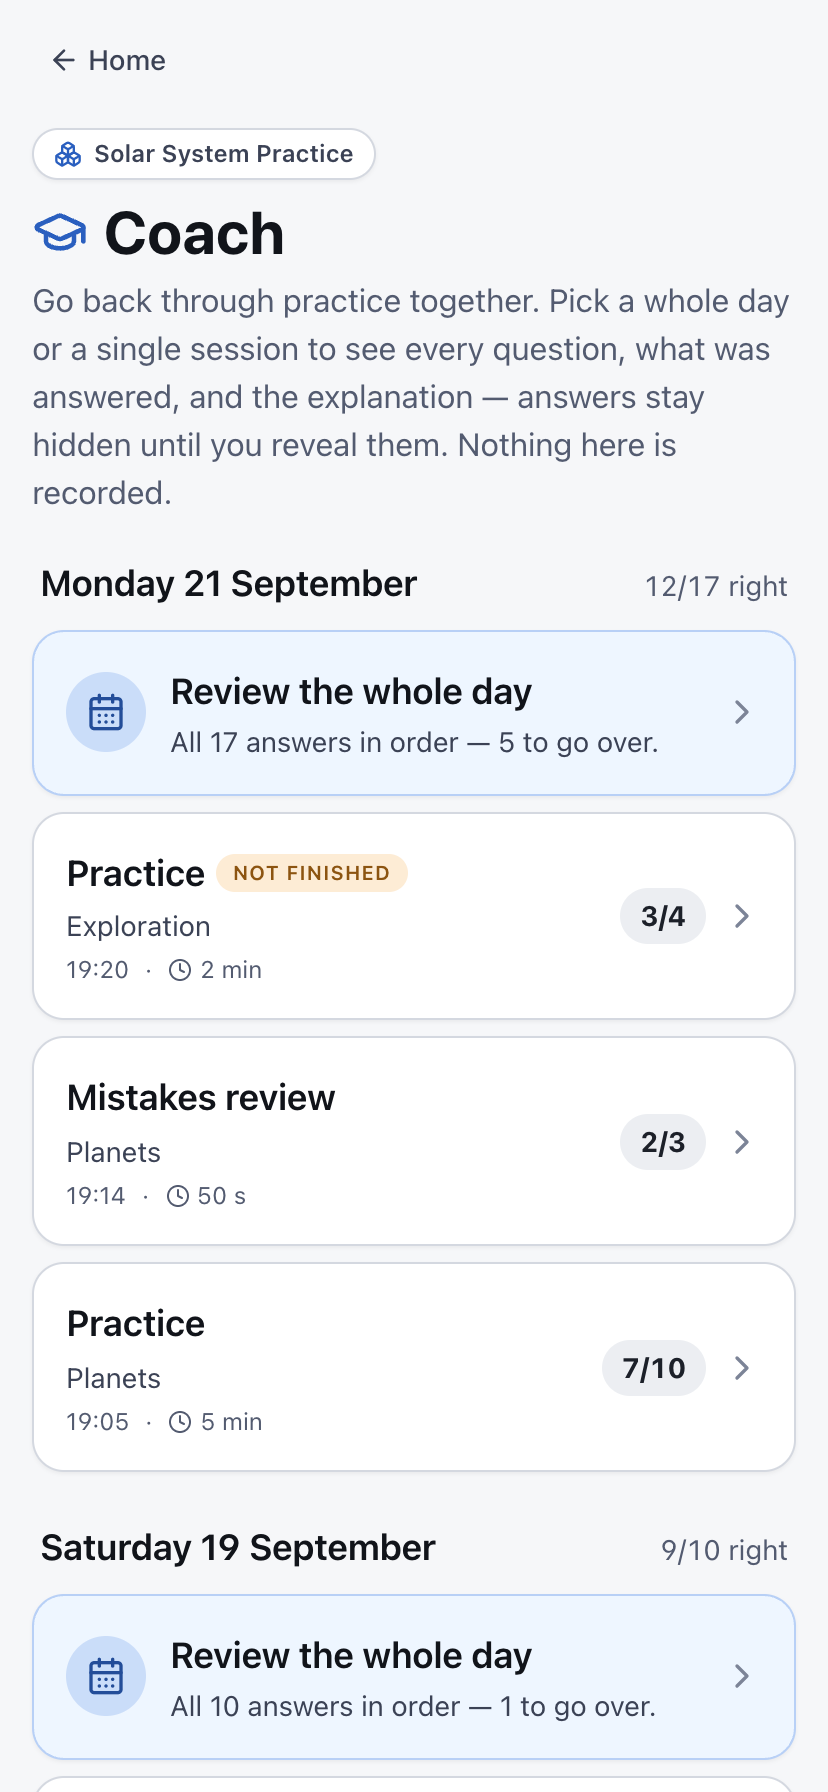
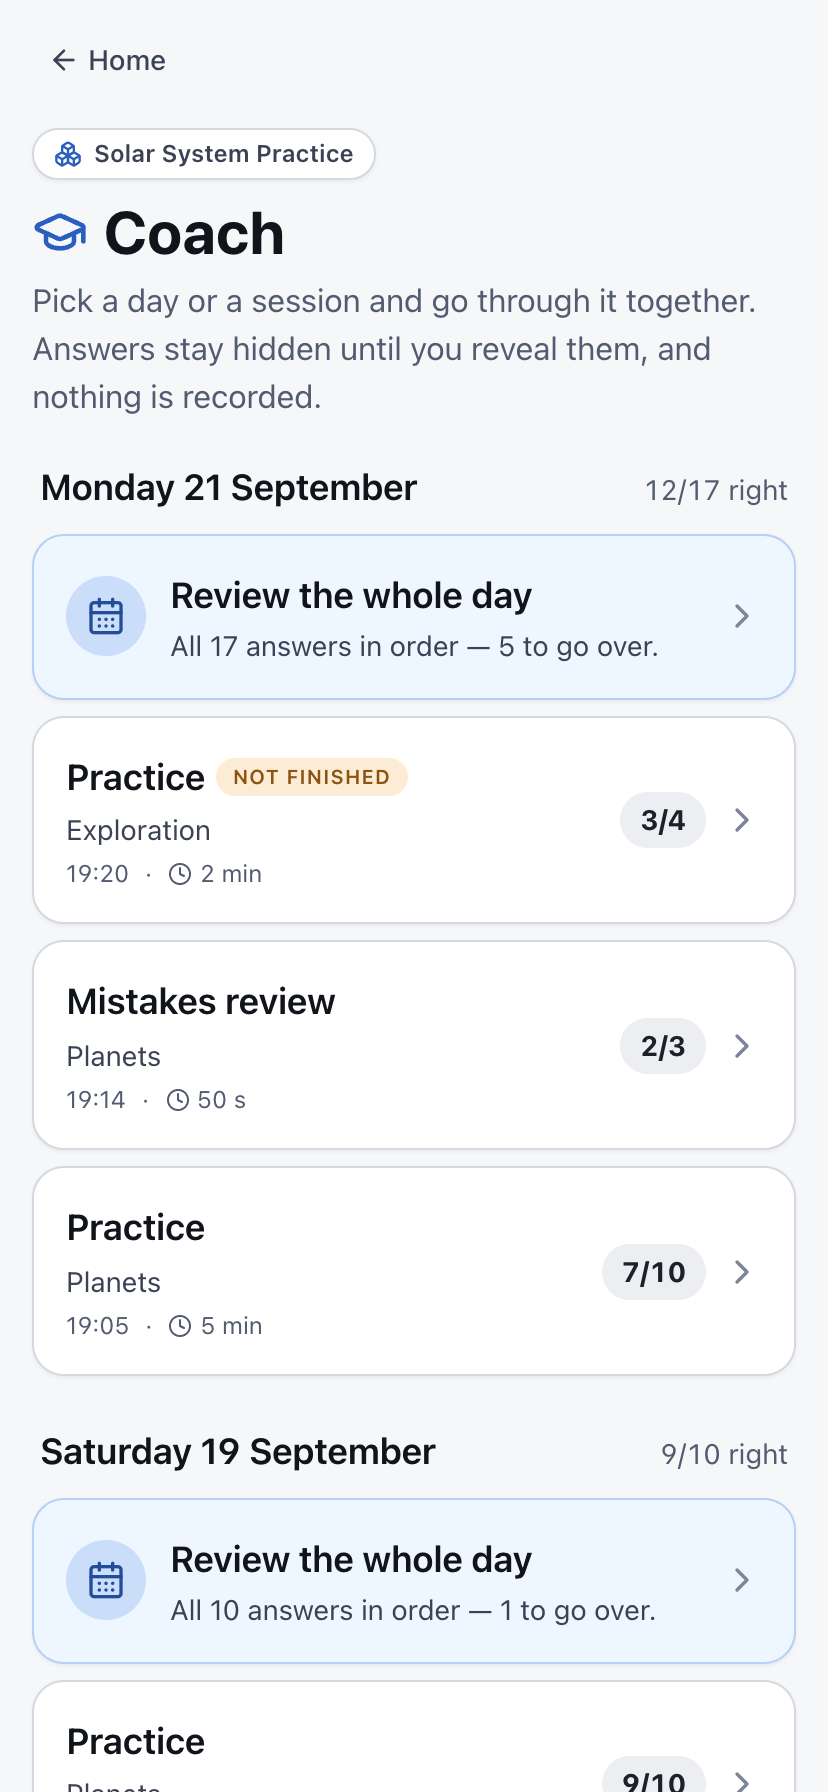
Coach replay: sticky reveal bar, no tag chips, scroll to top, tighter copy
- The back / Show-all-answers bar sticks to the top: a day replay runs
  to dozens of cards and reveal-all is the control you reach for
  halfway down.
- QuestionMeta gains hideTags; the replay shows category and level only.
  A parent wants the question, not the pack's taxonomy, and the tags
  wrapped the chip row onto two lines. Time taken folds into the
  Q n/N chip.
- Opening or closing a replay scrolls to the top, so a session picked
  from deep in the list doesn't open mid-page.
- Shorter intro copy on the list.

Claude-Session: https://claude.ai/code/session_01XkgoMpKoGMRr8BKYGdnCAz

diff --git a/src/pack/CoachPage.tsx b/src/pack/CoachPage.tsx
@@ -127,12 +127,16 @@ export function CoachPage() {
   function open(t: Target) {
     window.location.hash = hashFor(t);
     setTarget(t);
+    // The list may be scrolled a long way down; the replay starts at its top.
+    window.scrollTo(0, 0);
   }
 
   function close() {
-    // Replace the hash without a scroll jump; back-button history stays sane.
+    // Replace the hash (no history entry of its own); the browser's back
+    // button also lands here via hashchange.
     window.history.replaceState(null, '', window.location.pathname + window.location.search);
     setTarget(null);
+    window.scrollTo(0, 0);
   }
 
   if (!mounted) {
@@ -199,10 +203,8 @@ export function CoachPage() {
           Coach
         </h1>
         <p className="mt-1 text-ink-500">
-          Go back through practice together. Pick a whole day or a single
-          session to see every question, what was answered, and the
-          explanation — answers stay hidden until you reveal them. Nothing
-          here is recorded.
+          Pick a day or a session and go through it together. Answers stay
+          hidden until you reveal them, and nothing is recorded.
         </p>
       </div>
 
@@ -374,7 +376,9 @@ function ReplayView({
 
   return (
     <main className="flex flex-col gap-5">
-      <header className="flex items-center justify-between">
+      {/* Sticky: a day replay runs to dozens of cards, and reveal-all is
+          the control you reach for halfway down. */}
+      <header className="sticky top-0 z-10 -mx-1 flex items-center justify-between bg-ink-50/95 px-1 py-2 backdrop-blur">
         <button
           type="button"
           onClick={onBack}
@@ -526,14 +530,17 @@ function ReplayCard({
         className="flex flex-col gap-3 rounded-2xl border border-ink-200 bg-surface p-4 shadow-sm"
       >
         <div className="flex flex-wrap items-center gap-1.5 text-sm">
-          <QuestionMeta question={question} />
+          <QuestionMeta question={question} hideTags />
           {scenario ? (
             <span className="rounded-full border border-ink-300 bg-surface px-2 py-0.5 text-[10px] font-semibold uppercase tracking-wider text-ink-700">
               {scenario.title}
             </span>
           ) : null}
-          <span className="rounded-full bg-ink-100 px-2 py-0.5 text-[10px] font-semibold uppercase tracking-wider text-ink-600">
+          <span className="inline-flex items-center gap-1 rounded-full bg-ink-100 px-2 py-0.5 text-[10px] font-semibold uppercase tracking-wider text-ink-600">
             Q {step.index} / {total}
+            <span aria-hidden>·</span>
+            <Clock className="h-3 w-3" />
+            <span className="normal-case">{formatSpan(attempt.timeTakenSeconds)}</span>
           </span>
           {prior.length > 0 ? (
             <span
@@ -544,10 +551,6 @@ function ReplayCard({
               seen {prior.length}× before
             </span>
           ) : null}
-          <span className="ml-auto inline-flex items-center gap-1 text-xs text-ink-500">
-            <Clock className="h-3 w-3" />
-            {formatSpan(attempt.timeTakenSeconds)}
-          </span>
         </div>
 
         {scenario?.stem ? (

diff --git a/src/pack/QuestionMeta.tsx b/src/pack/QuestionMeta.tsx
@@ -11,9 +11,17 @@ import {
  * pack defines levels), and any tags (topic, source marker, …). All
  * pack-driven — the engine carries no domain terminology.
  */
-export function QuestionMeta({ question }: { question: PackQuestion }) {
+export function QuestionMeta({
+  question,
+  hideTags = false,
+}: {
+  question: PackQuestion;
+  /** Category + level only — for views where the pack's tags are noise
+   *  (the coach replay shows a parent the question, not its taxonomy). */
+  hideTags?: boolean;
+}) {
   const levelLabel = question.level ? PACK_LEVEL_LABEL[question.level] : undefined;
-  const tags = question.tags ?? [];
+  const tags = hideTags ? [] : (question.tags ?? []);
   return (
     <>
       <span className="rounded-full border border-brand-200 bg-brand-50 px-2 py-0.5 text-[10px] font-semibold uppercase tracking-wider text-brand-700">
